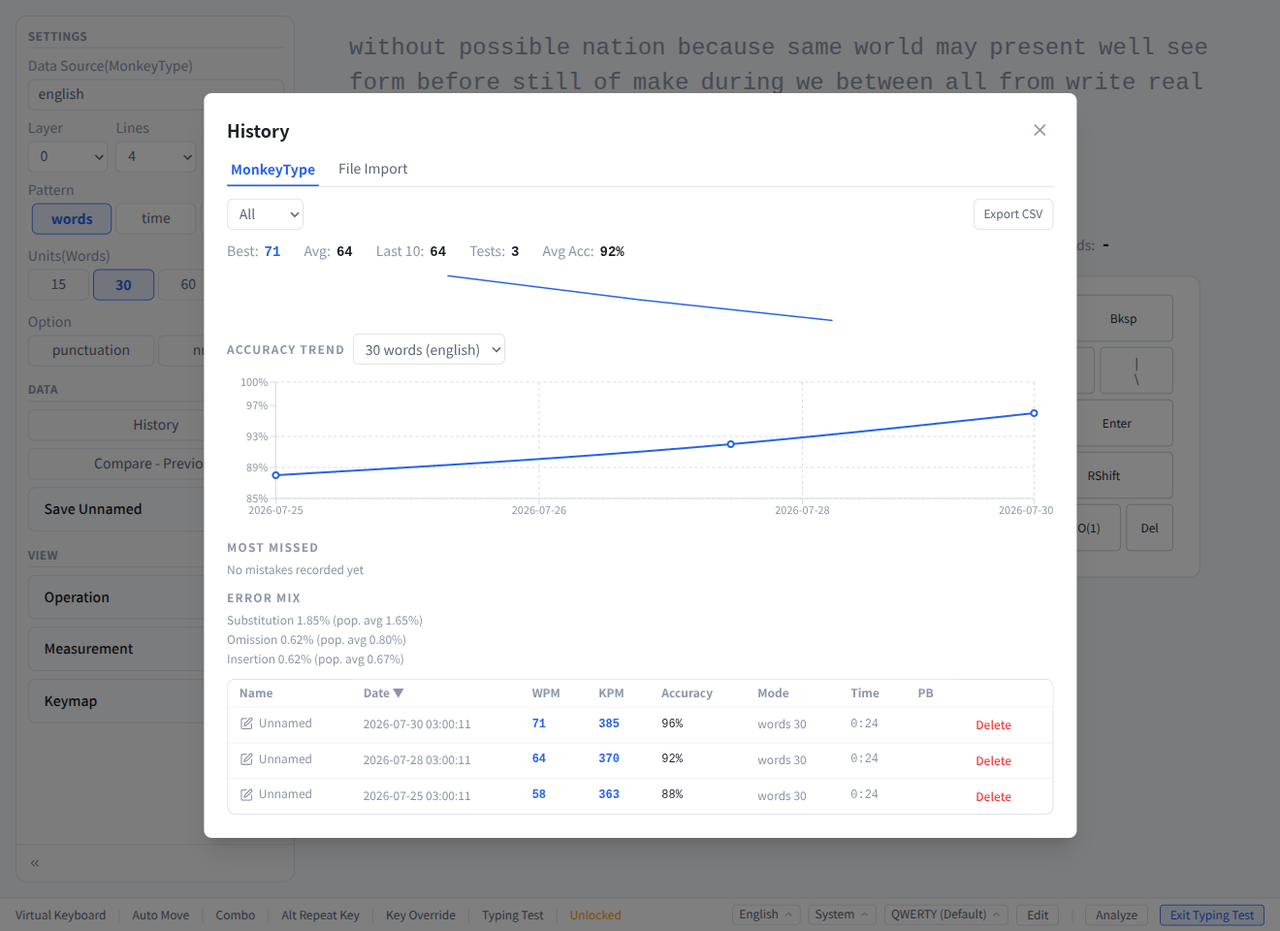
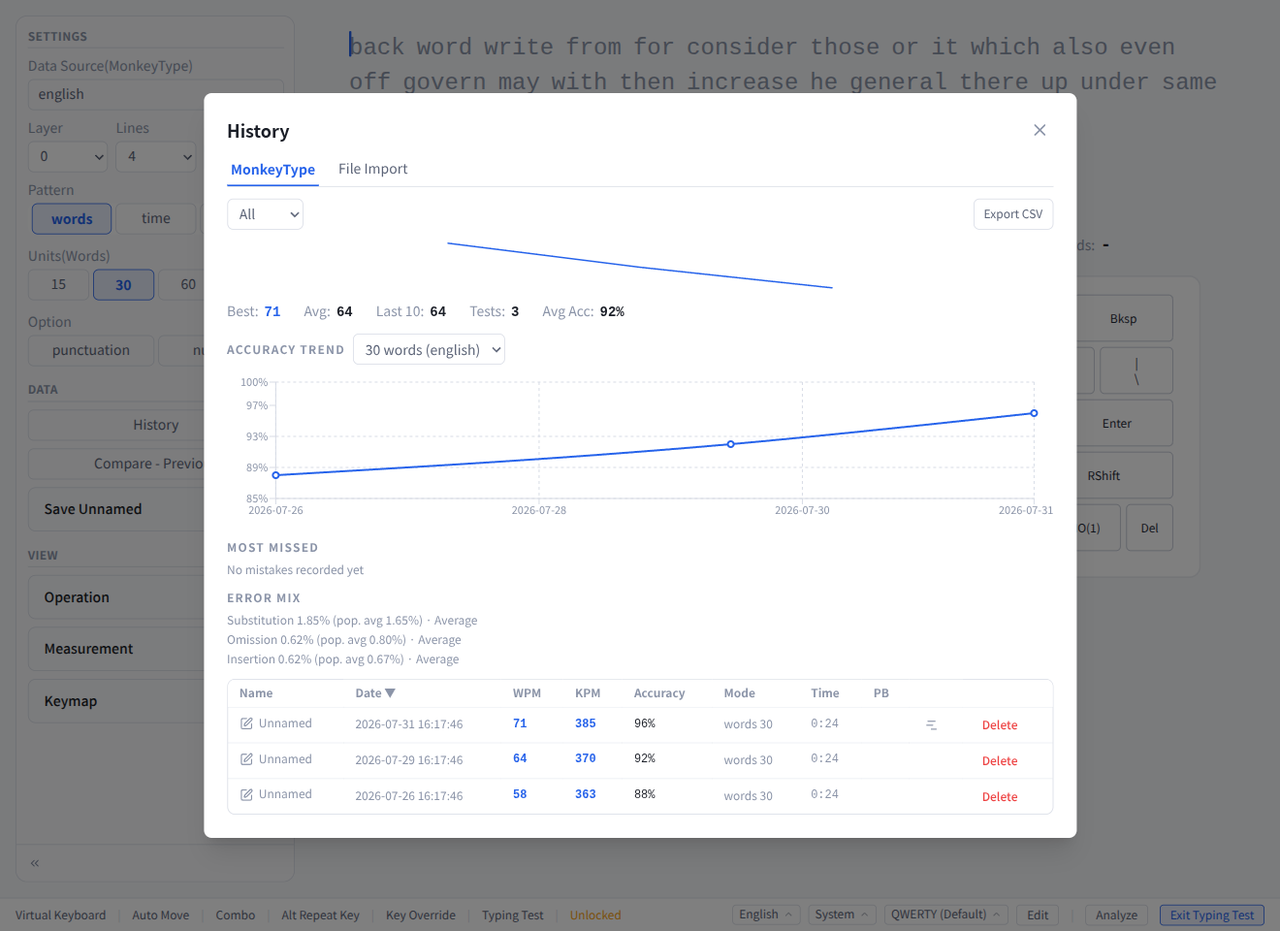
fix(ui): align typing history layout with the chart-above-stats rule (#344)

diff --git a/docs/guide.html b/docs/guide.html
@@ -1008,7 +1008,7 @@ header {
 <p>Click the <strong>Typing Test</strong> button in the status bar to enter typing test mode.</p>
 <h4 id="settings-panel">Settings Panel</h4>
 <p>The left side of the typing-test screen is a collapsible <strong>Settings</strong> panel. The chevron button at its bottom collapses it to a thin rail and expands it again; the state is saved per keyboard. The panel groups the test controls into three sections:</p>
-<ul><li><strong>Settings</strong> — the <strong>Data Source</strong> row (see below); <strong>Layer</strong> (the base layer used by the on-screen keymap, shown when the keyboard has more than one layer); and <strong>Lines</strong> / <strong>Font</strong> (line count and font size of the reading window — these two apply in every mode). With a MonkeyType language active, the <strong>Pattern</strong> / <strong>Units</strong> / <strong>Option</strong> rows described under <strong>MonkeyType</strong> also appear here; with a Tatoeba pack active, Tatoeba's own <strong>Pattern</strong> / <strong>Units</strong> rows appear instead (see <strong>Tatoeba</strong> below)</li><li><strong>Data</strong> — <strong>History</strong> opens the saved-results modal: results are split into <strong>MonkeyType</strong> and <strong>File Import</strong> tabs, with a mode filter dropdown on the MonkeyType tab and a text filter dropdown on the File Import tab; the stats row (Best / Avg / Last 10 / Tests / Avg Acc), the sparkline, and <strong>Export CSV</strong> all follow the current filter, and each row can be renamed (via the same naming modal as the finished screen) or deleted. <strong>Compare</strong> picks the comparison baseline — <strong>Previous</strong>, <strong>Best</strong>, <strong>Average</strong>, a pinned <strong>Result</strong>, or <strong>Off</strong>; while a baseline is set, colored ▲ / ▼ deltas appear next to WPM / KPM / Accuracy in the stats row. The baseline choice is remembered per test condition (mode + settings + language, or per imported text). <strong>Save Unnamed</strong> (default on) auto-saves finished results even without a name; switched off, only named results are kept</li></ul>
+<ul><li><strong>Settings</strong> — the <strong>Data Source</strong> row (see below); <strong>Layer</strong> (the base layer used by the on-screen keymap, shown when the keyboard has more than one layer); and <strong>Lines</strong> / <strong>Font</strong> (line count and font size of the reading window — these two apply in every mode). With a MonkeyType language active, the <strong>Pattern</strong> / <strong>Units</strong> / <strong>Option</strong> rows described under <strong>MonkeyType</strong> also appear here; with a Tatoeba pack active, Tatoeba's own <strong>Pattern</strong> / <strong>Units</strong> rows appear instead (see <strong>Tatoeba</strong> below)</li><li><strong>Data</strong> — <strong>History</strong> opens the saved-results modal: results are split into <strong>MonkeyType</strong> and <strong>File Import</strong> tabs, with a mode filter dropdown on the MonkeyType tab and a text filter dropdown on the File Import tab; the sparkline, the stats row (Best / Avg / Last 10 / Tests / Avg Acc), and <strong>Export CSV</strong> all follow the current filter, and each row can be renamed (via the same naming modal as the finished screen) or deleted. <strong>Compare</strong> picks the comparison baseline — <strong>Previous</strong>, <strong>Best</strong>, <strong>Average</strong>, a pinned <strong>Result</strong>, or <strong>Off</strong>; while a baseline is set, colored ▲ / ▼ deltas appear next to WPM / KPM / Accuracy in the stats row. The baseline choice is remembered per test condition (mode + settings + language, or per imported text). <strong>Save Unnamed</strong> (default on) auto-saves finished results even without a name; switched off, only named results are kept</li></ul>
 <p>  Below the sparkline, an <strong>Accuracy Trend</strong> chart plots accuracy over time for a single test condition, picked from the dropdown next to it (e.g. "50 words (english) +punct" or "30s (english)"; the label format varies by mode). This condition picker is independent of the mode/text filter above it — it always lists every condition present in the active tab's full history — and defaults to the condition of the most recent run. The chart appears once the selected condition has 2 or more saved runs</p>
 <div class="img-wrap">  <img src="screenshots/typing-test-accuracy-trend.png" alt="Typing Test — Accuracy trend" class="doc-img" loading="lazy"></div>
 <p>  Below the Accuracy Trend chart, a <strong>Most missed</strong> ranking lists up to the top 15 missed characters (or, in Romaji mode, the missed kana's romaji, e.g. "shi") as proportional bars, ranked by mistake count. Unlike the Accuracy Trend, it isn't scoped to one condition — it aggregates every result in the active tab. It stays hidden when the tab has no results at all, and shows a brief empty message when there are results but none of them recorded a mistake</p>
@@ -1857,7 +1857,7 @@ header {
 <p>ステータスバーの <strong>Typing Test</strong> ボタンをクリックしてテストモードに入ります。</p>
 <h4 id="settings-設定-パネル">Settings（設定）パネル</h4>
 <p>タイピングテスト画面の左側は折りたたみ可能な <strong>Settings（設定）</strong> パネルです。パネル下部のシェブロンボタンで細いレールへの折りたたみ / 展開を切り替えられ、状態はキーボードごとに保存されます。パネルはテストの操作を 3 つのセクションにまとめています:</p>
-<ul><li><strong>Settings（設定）</strong> — <strong>データ元</strong> 行（下記参照）、<strong>Layer</strong>（画面上のキーマップが使うベースレイヤー。レイヤーが 2 つ以上あるキーボードで表示）、<strong>Lines（行）</strong> / <strong>Font</strong>（読み取りウィンドウの行数とフォントサイズ — この 2 つは全モード共通）。MonkeyType の言語がアクティブな場合は、<strong>MonkeyType</strong> の項で説明する <strong>Pattern（パターン）</strong> / <strong>Units（単位）</strong> / <strong>Option（オプション）</strong> の行もここに表示されます。Tatoeba のパックがアクティブな場合は、代わりに Tatoeba 独自の <strong>Pattern（パターン）</strong> / <strong>Units（単位）</strong> 行が表示されます（下記 <strong>Tatoeba</strong> 参照）</li><li><strong>Data（データ）</strong> — <strong>History（履歴）</strong> は保存結果のモーダルを開きます。結果は <strong>MonkeyType</strong> と <strong>File Import（ファイル取込）</strong> のタブに分かれ、MonkeyType タブにはモードの絞り込みドロップダウン、File Import タブにはテキストの絞り込みドロップダウンがあります。統計行（最高 / 平均 / 直近10回 / テスト数 / 平均正確性）、スパークライン、<strong>Export CSV（CSV出力）</strong> はすべて現在の絞り込みに従い、各行は（完了画面と同じ名前付けモーダルで）リネーム、または削除できます。<strong>Compare（比較）</strong> は比較基準を選びます — <strong>Previous（前回）</strong>、<strong>Best（ベスト）</strong>、<strong>Average（平均）</strong>、ピン留めした <strong>Result（結果）</strong>、<strong>Off（オフ）</strong>。基準を設定している間は、統計行の WPM / KPM / Accuracy の横に色付きの ▲ / ▼ 差分が表示されます。基準の選択はテスト条件（モード + 設定 + 言語、またはインポートテキスト）ごとに記憶されます。<strong>Save Unnamed（名称未設定も保存）</strong>（デフォルト ON）は名前を付けなくても完了した結果を自動保存します。OFF にすると名前を付けた結果だけが保存されます</li></ul>
+<ul><li><strong>Settings（設定）</strong> — <strong>データ元</strong> 行（下記参照）、<strong>Layer</strong>（画面上のキーマップが使うベースレイヤー。レイヤーが 2 つ以上あるキーボードで表示）、<strong>Lines（行）</strong> / <strong>Font</strong>（読み取りウィンドウの行数とフォントサイズ — この 2 つは全モード共通）。MonkeyType の言語がアクティブな場合は、<strong>MonkeyType</strong> の項で説明する <strong>Pattern（パターン）</strong> / <strong>Units（単位）</strong> / <strong>Option（オプション）</strong> の行もここに表示されます。Tatoeba のパックがアクティブな場合は、代わりに Tatoeba 独自の <strong>Pattern（パターン）</strong> / <strong>Units（単位）</strong> 行が表示されます（下記 <strong>Tatoeba</strong> 参照）</li><li><strong>Data（データ）</strong> — <strong>History（履歴）</strong> は保存結果のモーダルを開きます。結果は <strong>MonkeyType</strong> と <strong>File Import（ファイル取込）</strong> のタブに分かれ、MonkeyType タブにはモードの絞り込みドロップダウン、File Import タブにはテキストの絞り込みドロップダウンがあります。スパークライン、統計行（最高 / 平均 / 直近10回 / テスト数 / 平均正確性）、<strong>Export CSV（CSV出力）</strong> はすべて現在の絞り込みに従い、各行は（完了画面と同じ名前付けモーダルで）リネーム、または削除できます。<strong>Compare（比較）</strong> は比較基準を選びます — <strong>Previous（前回）</strong>、<strong>Best（ベスト）</strong>、<strong>Average（平均）</strong>、ピン留めした <strong>Result（結果）</strong>、<strong>Off（オフ）</strong>。基準を設定している間は、統計行の WPM / KPM / Accuracy の横に色付きの ▲ / ▼ 差分が表示されます。基準の選択はテスト条件（モード + 設定 + 言語、またはインポートテキスト）ごとに記憶されます。<strong>Save Unnamed（名称未設定も保存）</strong>（デフォルト ON）は名前を付けなくても完了した結果を自動保存します。OFF にすると名前を付けた結果だけが保存されます</li></ul>
 <p>  スパークラインの下には <strong>Accuracy Trend（正確性の推移）</strong> チャートがあり、隣のドロップダウンで選んだ単一のテスト条件（例: "50 words (english) +punct"、"30s (english)" など。表示形式はモードによって異なります）ごとに正確性の推移を折れ線で表示します。この条件セレクタは上のモード / テキスト絞り込みとは独立しており、常にアクティブなタブの履歴全体から候補を一覧表示し、デフォルトは最新実行の条件です。選択した条件に保存済みの実行が2件以上あるとチャートが表示されます</p>
 <div class="img-wrap">  <img src="screenshots/typing-test-accuracy-trend.png" alt="Typing Test — Accuracy trend" class="doc-img" loading="lazy"></div>
 <p>  Accuracy Trend チャートの下には <strong>Most missed（ミス頻出）</strong> ランキングがあり、ミス回数の多い文字（ローマ字入力モードでは、ミスしたかなのローマ字表記。例:「shi」）を最大 15 件、比率バーで表示します。Accuracy Trend と異なり単一の条件には絞り込まれず、アクティブなタブの全結果を集計します。タブに結果が 1 件も無いときは非表示になり、結果はあってもミスが 1 件も記録されていないときは簡潔な空状態メッセージが表示されます</p>

diff --git a/src/renderer/components/analyze/IntervalChart.tsx b/src/renderer/components/analyze/IntervalChart.tsx
@@ -249,7 +249,7 @@ export function IntervalChart({ uid, range, deviceScopes, appScopes, typingTestS
         data-testid="analyze-interval-distribution"
         aria-label={t('analyze.interval.distribution.sectionTitle')}
       >
-        <div className="h-64 w-full">
+        <div className="h-64 w-full" data-testid="analyze-interval-distribution-plot">
           <ResponsiveContainer width="100%" height="100%">
             <BarChart data={distributionData} margin={{ top: 10, right: 20, bottom: 20, left: 10 }}>
               <CartesianGrid strokeDasharray="3 3" stroke="var(--color-edge)" />
@@ -287,6 +287,7 @@ export function IntervalChart({ uid, range, deviceScopes, appScopes, typingTestS
           <AnalyzeStatGrid
             items={distributionItems}
             ariaLabelKey="analyze.interval.distribution.summary.label"
+            testId="analyze-interval-distribution-summary"
           />
         )}
       </section>
@@ -304,7 +305,7 @@ export function IntervalChart({ uid, range, deviceScopes, appScopes, typingTestS
   return (
     <div className="flex h-full w-full flex-col gap-2" data-testid="analyze-interval-chart">
       <h3 className="text-sm font-semibold text-content">{t('analyze.interval.timeSeries.sectionTitle')}</h3>
-      <div className="flex-1 min-h-0">
+      <div className="flex-1 min-h-0" data-testid="analyze-interval-timeseries-plot">
         <ResponsiveContainer width="100%" height="100%">
           <LineChart data={chartData} margin={{ top: 10, right: 20, bottom: 20, left: 10 }}>
           <CartesianGrid strokeDasharray="3 3" stroke="var(--color-edge)" />
@@ -392,6 +393,7 @@ export function IntervalChart({ uid, range, deviceScopes, appScopes, typingTestS
         <AnalyzeStatGrid
           items={timeSeriesItems}
           ariaLabelKey="analyze.interval.timeSeries.summary.label"
+          testId="analyze-interval-timeseries-summary"
         />
       )}
     </div>

diff --git a/src/renderer/components/analyze/__tests__/WpmChart.test.tsx b/src/renderer/components/analyze/__tests__/WpmChart.test.tsx
@@ -121,3 +121,34 @@ describe('WpmChart benchmark reference line', () => {
     expect(screen.queryByTestId('analyze-reference-line')).toBeNull()
   })
 })
+
+describe('WpmChart section order', () => {
+  beforeEach(() => {
+    setVialAPI()
+  })
+
+  // Regression guard, same pattern as RolloverSection's order-lock test
+  // (.claude/tasks/backlog/Task-analyze-section-layout-consistency.md):
+  // pins chart-then-stat order in timeSeries mode.
+  it('renders the chart above the stat card in timeSeries mode', async () => {
+    renderChart({ viewMode: 'timeSeries' })
+    await waitFor(() => {
+      expect(screen.getByTestId('analyze-wpm-summary')).toBeTruthy()
+    })
+    const plot = screen.getByTestId('analyze-wpm-plot')
+    const summary = screen.getByTestId('analyze-wpm-summary')
+    expect(plot.compareDocumentPosition(summary) & Node.DOCUMENT_POSITION_FOLLOWING).toBeTruthy()
+  })
+
+  // Same guard for the timeOfDay bar chart, which shares the same
+  // AnalyzeStatGrid testid as timeSeries above.
+  it('renders the chart above the stat card in timeOfDay mode', async () => {
+    renderChart({ viewMode: 'timeOfDay' })
+    await waitFor(() => {
+      expect(screen.getByTestId('analyze-wpm-summary')).toBeTruthy()
+    })
+    const plot = screen.getByTestId('analyze-wpm-plot')
+    const summary = screen.getByTestId('analyze-wpm-summary')
+    expect(plot.compareDocumentPosition(summary) & Node.DOCUMENT_POSITION_FOLLOWING).toBeTruthy()
+  })
+})

diff --git a/src/renderer/typing-test/TypingTestHistory.tsx b/src/renderer/typing-test/TypingTestHistory.tsx
@@ -276,21 +276,21 @@ export function TypingTestHistory({ results, onExportCsv, onRename, onDelete, de
         )}
       </div>
 
+      {/* Sparkline — chart-above-stats, matching every other Analyze section's order */}
+      {sparklineResults.length >= 2 && (
+        <div className="flex justify-center" data-testid="history-sparkline">
+          <WpmSparkline results={sparklineResults} width={400} height={50} />
+        </div>
+      )}
+
       {/* Stats summary */}
-      <div className="flex flex-wrap items-center gap-6 text-sm">
+      <div className="flex flex-wrap items-center gap-6 text-sm" data-testid="history-stats">
         <StatItem label={t('editor.typingTest.history.bestWpm')} value={stats.bestWpm} highlight />
         <StatItem label={t('editor.typingTest.history.avgWpm')} value={stats.avgWpm} />
         <StatItem label={t('editor.typingTest.history.last10Avg')} value={stats.last10Avg} />
         <StatItem label={t('editor.typingTest.history.totalTests')} value={stats.totalTests} />
         <StatItem label={t('editor.typingTest.history.avgAccuracy')} value={`${stats.avgAccuracy}%`} />
       </div>
-
-      {/* Sparkline */}
-      {sparklineResults.length >= 2 && (
-        <div className="flex justify-center">
-          <WpmSparkline results={sparklineResults} width={400} height={50} />
-        </div>
-      )}
 
       <AccuracyTrendSection results={tabResults} />
       <MistakeRankingSection results={tabResults} />

diff --git a/src/renderer/components/analyze/__tests__/IntervalChart.test.tsx b/src/renderer/components/analyze/__tests__/IntervalChart.test.tsx
@@ -175,4 +175,27 @@ describe('IntervalChart distribution mode layout', () => {
     await waitFor(() => screen.getByTestId('analyze-interval-chart'))
     expect(screen.getByText('analyze.interval.timeSeries.sectionTitle')).toBeTruthy()
   })
+
+  // Regression guard, same pattern as RolloverSection's order-lock test
+  // (.claude/tasks/backlog/Task-analyze-section-layout-consistency.md):
+  // pins chart-then-stat order in both viewModes.
+  it('renders the chart above the stat card in timeSeries mode', async () => {
+    renderChart({ viewMode: 'timeSeries' })
+    await waitFor(() => {
+      expect(screen.getByTestId('analyze-interval-timeseries-summary')).toBeTruthy()
+    })
+    const plot = screen.getByTestId('analyze-interval-timeseries-plot')
+    const summary = screen.getByTestId('analyze-interval-timeseries-summary')
+    expect(plot.compareDocumentPosition(summary) & Node.DOCUMENT_POSITION_FOLLOWING).toBeTruthy()
+  })
+
+  it('renders the chart above the stat card in distribution mode', async () => {
+    renderChart({ viewMode: 'distribution' })
+    await waitFor(() => {
+      expect(screen.getByTestId('analyze-interval-distribution-summary')).toBeTruthy()
+    })
+    const plot = screen.getByTestId('analyze-interval-distribution-plot')
+    const summary = screen.getByTestId('analyze-interval-distribution-summary')
+    expect(plot.compareDocumentPosition(summary) & Node.DOCUMENT_POSITION_FOLLOWING).toBeTruthy()
+  })
 })

diff --git a/src/renderer/typing-test/__tests__/TypingTestHistory.test.tsx b/src/renderer/typing-test/__tests__/TypingTestHistory.test.tsx
@@ -374,6 +374,23 @@ describe('TypingTestHistory', () => {
     expect(screen.queryByTestId('history-delete-d1')).toBeNull()
   })
 
+  // Regression guard: pins sparkline-then-stats order, matching the Analyze
+  // chart-above-stats convention (RolloverSection's order-lock test is the
+  // original of this pattern; see
+  // .claude/tasks/backlog/Task-analyze-section-layout-consistency.md).
+  it('renders the sparkline above the stats row', () => {
+    const results = [
+      makeResult({ wpm: 80 }),
+      makeResult({ wpm: 60 }),
+    ]
+    renderWithI18n(<TypingTestHistory results={results} />)
+    const sparkline = screen.getByTestId('history-sparkline')
+    const stats = screen.getByTestId('history-stats')
+    // DOCUMENT_POSITION_FOLLOWING (4) set on `sparkline` relative to
+    // `stats` means the sparkline comes first in document order.
+    expect(sparkline.compareDocumentPosition(stats) & Node.DOCUMENT_POSITION_FOLLOWING).toBeTruthy()
+  })
+
   it('renders the name read-only (no edit) when no onRename handler', () => {
     renderWithI18n(<TypingTestHistory results={[makeResult({ date: 'x', name: 'kept' })]} />)
     expect(screen.queryByTestId('history-name-x')).toBeNull()

diff --git a/src/renderer/components/analyze/__tests__/DurationSection.test.tsx b/src/renderer/components/analyze/__tests__/DurationSection.test.tsx
@@ -214,4 +214,21 @@ describe('DurationSection', () => {
     expect(screen.queryByText('analyze.duration.sectionTitle')).toBeNull()
     expect(section.getAttribute('aria-label')).toBe('analyze.duration.sectionTitle')
   })
+
+  // Regression guard: pins chart-then-stat order, same as RolloverSection's
+  // equivalent test (.claude/tasks/backlog/Task-analyze-section-layout-consistency.md).
+  it('renders the chart above the stat card, matching every other section\'s chart-then-numbers order', async () => {
+    durationFetchSpy.mockResolvedValue([
+      cell({ hist: [1, 0, 0, 0, 0, 0, 0, 0], durationSamples: 1, sum: 80, sumSq: 6_400 }),
+    ])
+    renderSection()
+    await waitFor(() => {
+      expect(screen.getByTestId('analyze-duration-chart')).toBeTruthy()
+    })
+    const chart = screen.getByTestId('analyze-duration-chart')
+    const summary = screen.getByTestId('analyze-duration-summary')
+    // DOCUMENT_POSITION_FOLLOWING (4) set on `chart` relative to
+    // `summary` means chart comes first in document order.
+    expect(chart.compareDocumentPosition(summary) & Node.DOCUMENT_POSITION_FOLLOWING).toBeTruthy()
+  })
 })

diff --git a/src/renderer/components/analyze/WpmChart.tsx b/src/renderer/components/analyze/WpmChart.tsx
@@ -237,7 +237,7 @@ export function WpmChart({ uid, range, deviceScopes, appScopes, typingTestScopes
     }))
     return (
       <div className="flex h-full w-full flex-col gap-2" data-testid="analyze-wpm-time-of-day">
-        <div className="flex-1 min-h-0">
+        <div className="flex-1 min-h-0" data-testid="analyze-wpm-plot">
           <ResponsiveContainer width="100%" height="100%">
             <BarChart data={barData} margin={{ top: 10, right: 20, bottom: 20, left: 10 }}>
               <CartesianGrid strokeDasharray="3 3" stroke="var(--color-edge)" />
@@ -296,7 +296,7 @@ export function WpmChart({ uid, range, deviceScopes, appScopes, typingTestScopes
 
   return (
     <div className="flex h-full w-full flex-col gap-2" data-testid="analyze-wpm-chart">
-      <div className="flex-1 min-h-0">
+      <div className="flex-1 min-h-0" data-testid="analyze-wpm-plot">
         <ResponsiveContainer width="100%" height="100%">
           <LineChart data={chartData} margin={{ top: 10, right: 20, bottom: 20, left: 10 }}>
             <CartesianGrid strokeDasharray="3 3" stroke="var(--color-edge)" />

diff --git a/src/renderer/typing-test/WordTimelineView.tsx b/src/renderer/typing-test/WordTimelineView.tsx
@@ -320,6 +320,12 @@ export function WordTimelineView({ uid, runId, result, onClose }: Props) {
 
         {!loading && !loadError && model && (
           <div className="flex min-h-0 flex-1 flex-col gap-3">
+            {/* Deliberate exception to the Analyze chart-above-stats rule
+                (.claude/tasks/backlog/Task-analyze-section-layout-consistency.md):
+                this grid is the modal's summary header, not a chart-adjacent
+                stat row — it must sit above the legend/zoom controls and the
+                canvas, all of which the user reads top-to-bottom before ever
+                reaching the scrollable, flex-grow canvas below. */}
             <AnalyzeStatGrid items={summaryItems} ariaLabelKey="editor.typingTest.history.timeline.modalTitle" />
 
             {model.charCorrelationUnavailable && (

diff --git a/docs/OPERATION-GUIDE.md b/docs/OPERATION-GUIDE.md
@@ -1145,7 +1145,7 @@ Click the **Typing Test** button in the status bar to enter typing test mode.
 The left side of the typing-test screen is a collapsible **Settings** panel. The chevron button at its bottom collapses it to a thin rail and expands it again; the state is saved per keyboard. The panel groups the test controls into three sections:
 
 - **Settings** — the **Data Source** row (see below); **Layer** (the base layer used by the on-screen keymap, shown when the keyboard has more than one layer); and **Lines** / **Font** (line count and font size of the reading window — these two apply in every mode). With a MonkeyType language active, the **Pattern** / **Units** / **Option** rows described under **MonkeyType** also appear here; with a Tatoeba pack active, Tatoeba's own **Pattern** / **Units** rows appear instead (see **Tatoeba** below)
-- **Data** — **History** opens the saved-results modal: results are split into **MonkeyType** and **File Import** tabs, with a mode filter dropdown on the MonkeyType tab and a text filter dropdown on the File Import tab; the stats row (Best / Avg / Last 10 / Tests / Avg Acc), the sparkline, and **Export CSV** all follow the current filter, and each row can be renamed (via the same naming modal as the finished screen) or deleted. **Compare** picks the comparison baseline — **Previous**, **Best**, **Average**, a pinned **Result**, or **Off**; while a baseline is set, colored ▲ / ▼ deltas appear next to WPM / KPM / Accuracy in the stats row. The baseline choice is remembered per test condition (mode + settings + language, or per imported text). **Save Unnamed** (default on) auto-saves finished results even without a name; switched off, only named results are kept
+- **Data** — **History** opens the saved-results modal: results are split into **MonkeyType** and **File Import** tabs, with a mode filter dropdown on the MonkeyType tab and a text filter dropdown on the File Import tab; the sparkline, the stats row (Best / Avg / Last 10 / Tests / Avg Acc), and **Export CSV** all follow the current filter, and each row can be renamed (via the same naming modal as the finished screen) or deleted. **Compare** picks the comparison baseline — **Previous**, **Best**, **Average**, a pinned **Result**, or **Off**; while a baseline is set, colored ▲ / ▼ deltas appear next to WPM / KPM / Accuracy in the stats row. The baseline choice is remembered per test condition (mode + settings + language, or per imported text). **Save Unnamed** (default on) auto-saves finished results even without a name; switched off, only named results are kept
 
   Below the sparkline, an **Accuracy Trend** chart plots accuracy over time for a single test condition, picked from the dropdown next to it (e.g. "50 words (english) +punct" or "30s (english)"; the label format varies by mode). This condition picker is independent of the mode/text filter above it — it always lists every condition present in the active tab's full history — and defaults to the condition of the most recent run. The chart appears once the selected condition has 2 or more saved runs
 
